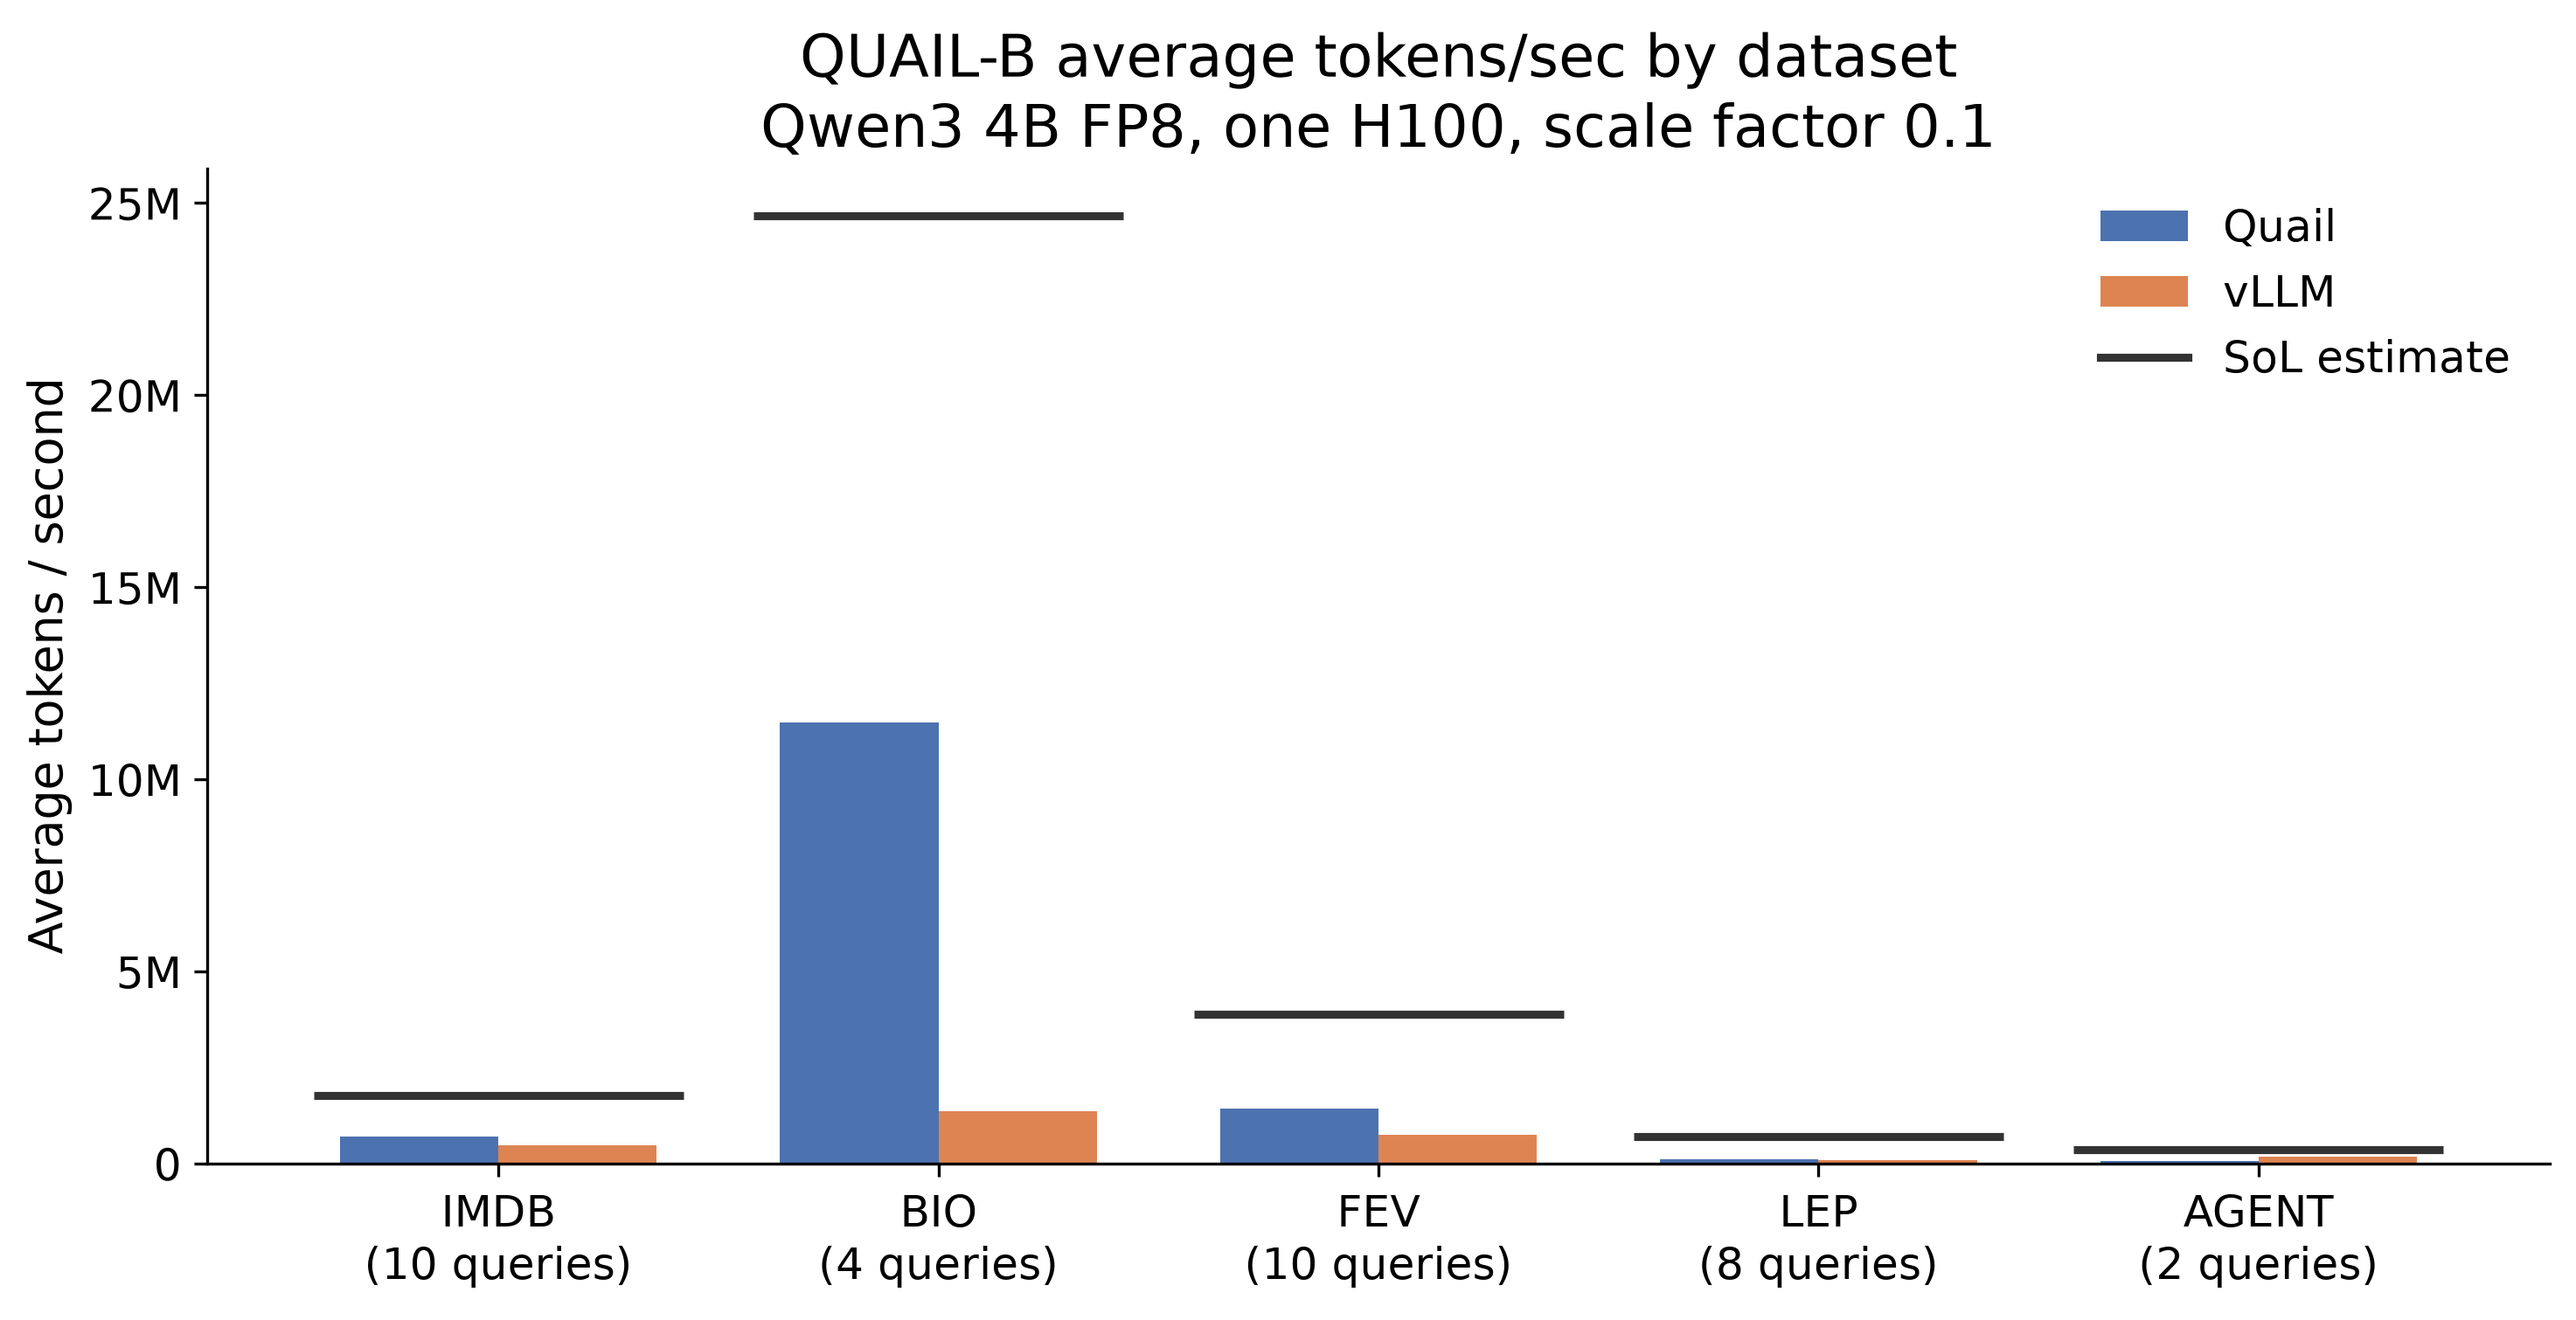
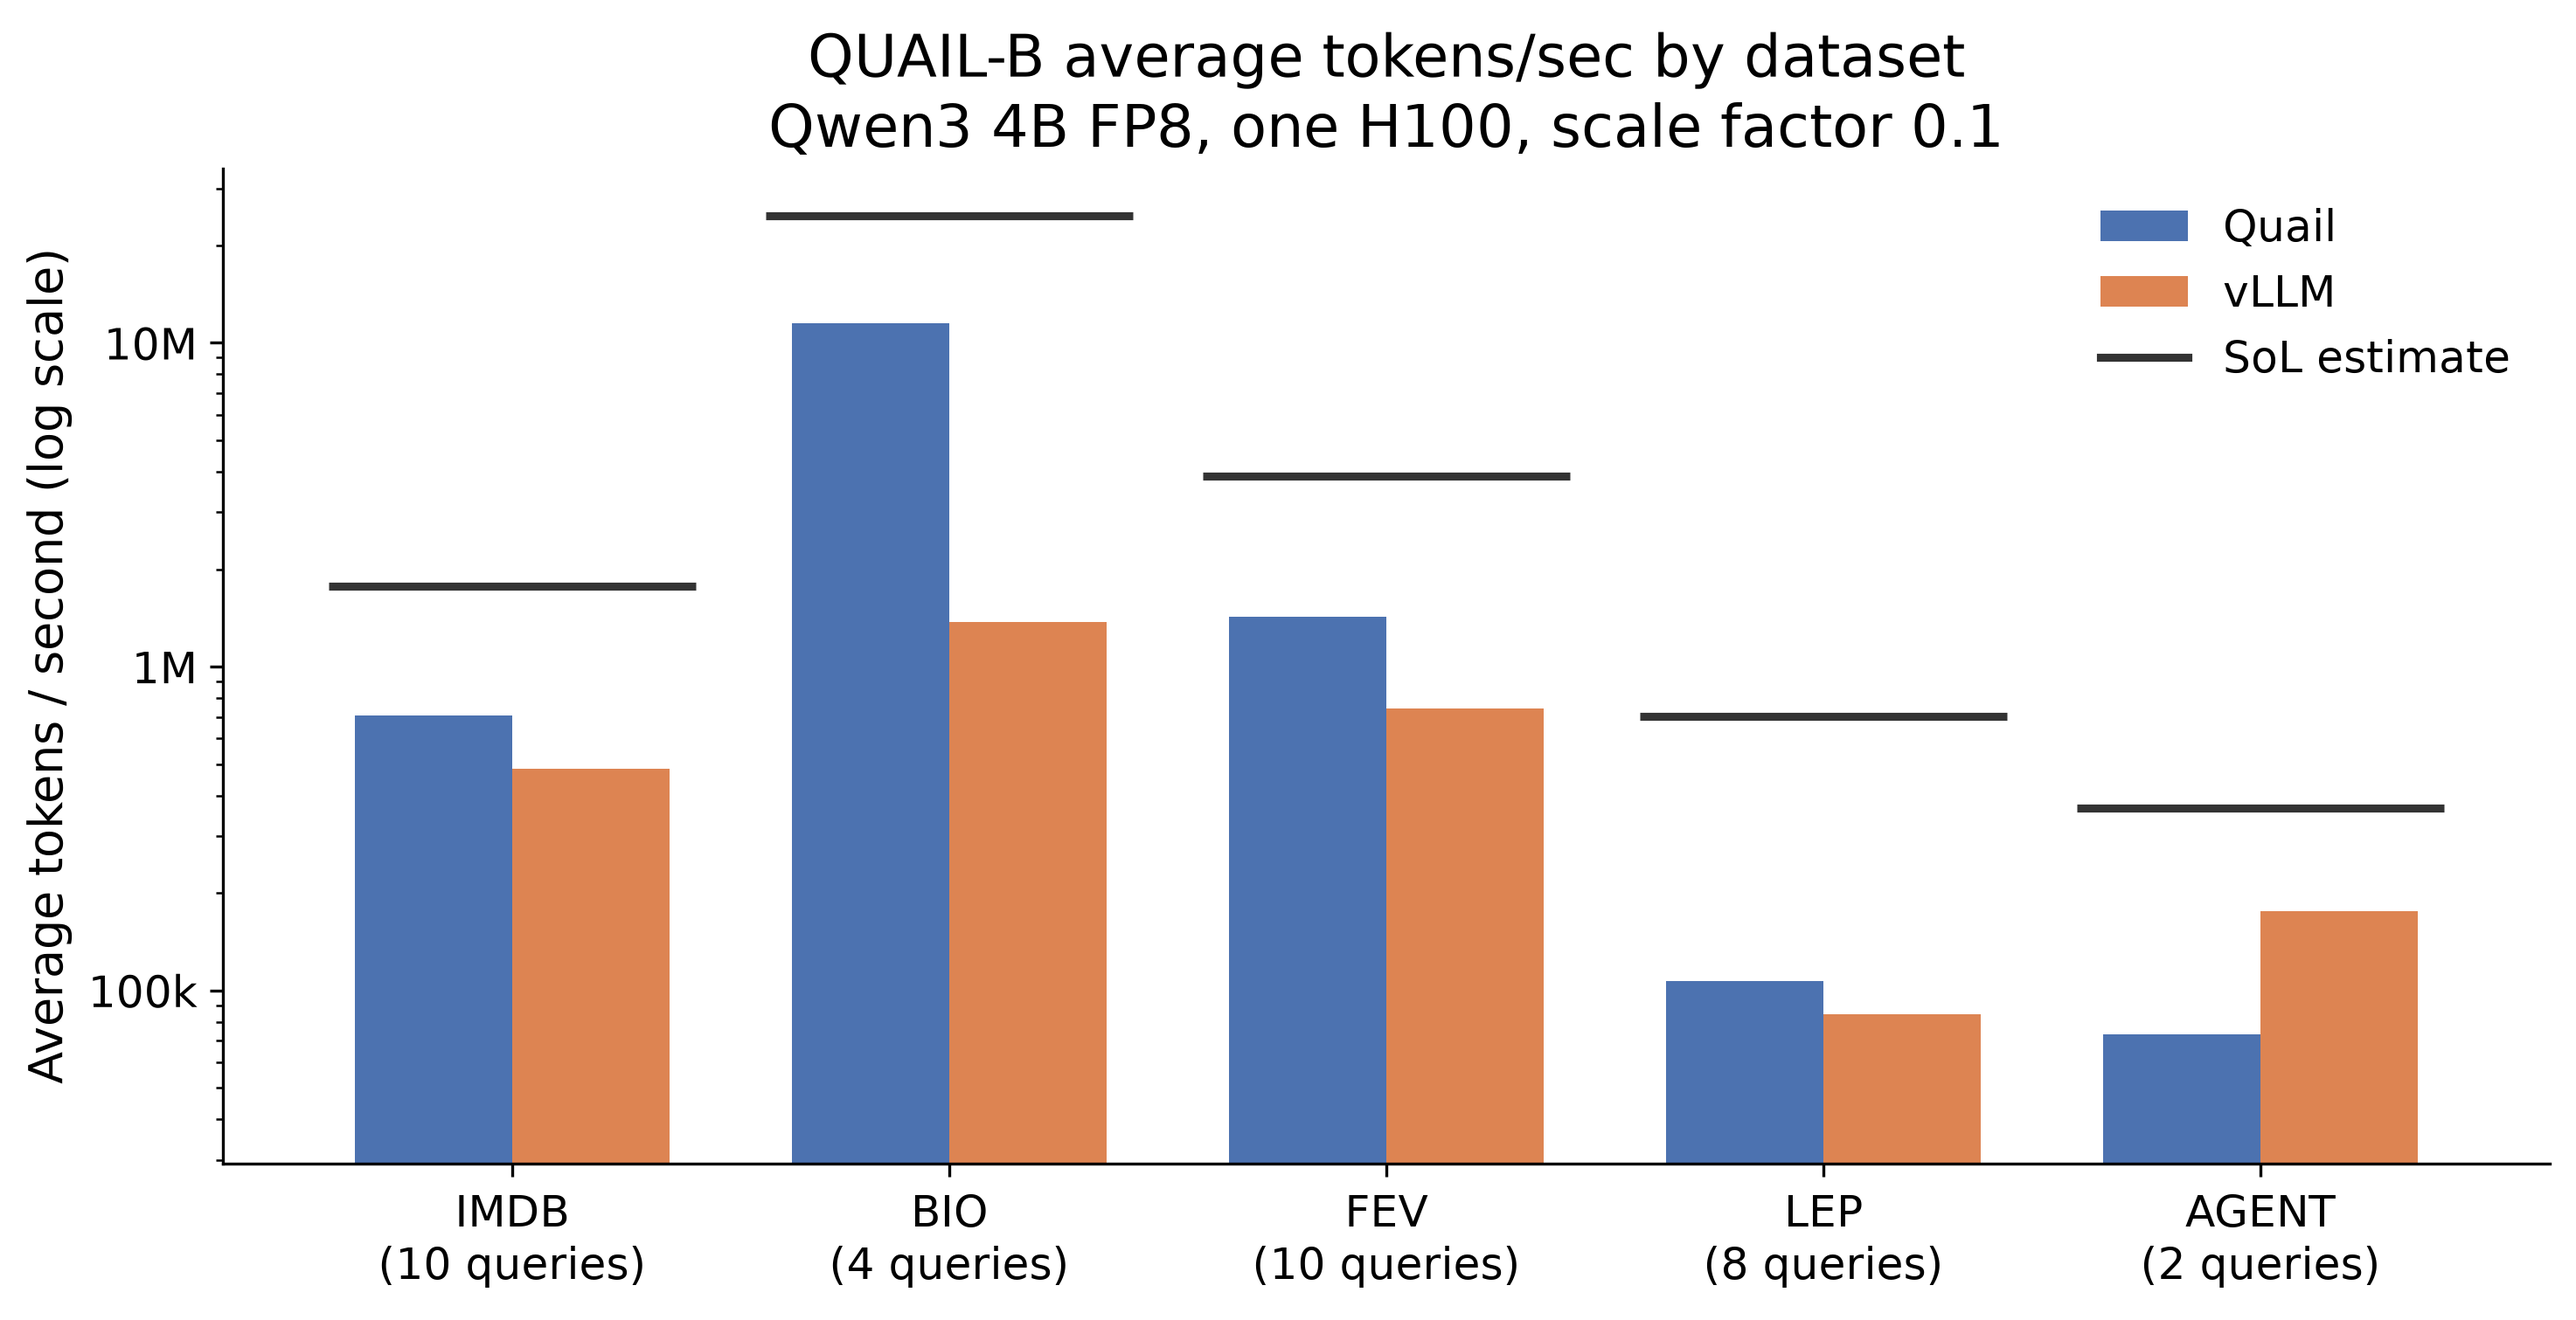
Use log scale for headline tokens/sec y-axis

diff --git a/blogs/intro/make_headline_tok_per_sec.py b/blogs/intro/make_headline_tok_per_sec.py
@@ -154,10 +154,12 @@ def plot_headline(rows, destination: Path):
     figure, axis = plt.subplots(figsize=(10, 5.2))
     positions = list(range(len(datasets)))
     width = 0.36
+    all_bar_values = []
     for index, (method, color) in enumerate(
         (("Quail", BLUE), ("vLLM", ORANGE))
     ):
         values = [statistics.mean(by[name][method]) for name in datasets]
+        all_bar_values.extend(values)
         offset = (index - 0.5) * width
         axis.bar(
             [position + offset for position in positions],
@@ -165,6 +167,7 @@ def plot_headline(rows, destination: Path):
             width,
             color=color,
             zorder=2,
+            bottom=None,
         )
     for position, name in enumerate(datasets):
         if not by[name]["SoL"]:
@@ -181,6 +184,15 @@ def plot_headline(rows, destination: Path):
             zorder=3,
         )
 
+    sol_values = [
+        statistics.mean(by[name]["SoL"])
+        for name in datasets
+        if by[name]["SoL"]
+    ]
+    ymin = min(all_bar_values + sol_values) / 2.5
+    ymax = max(all_bar_values + sol_values) * 1.4
+    axis.set_ylim(ymin, ymax)
+
     axis.set_xticks(positions)
     axis.set_xticklabels(
         [
@@ -188,14 +200,16 @@ def plot_headline(rows, destination: Path):
             for name in datasets
         ]
     )
-    axis.set_ylabel("Average tokens / second")
+    axis.set_ylabel("Average tokens / second (log scale)")
     axis.set_title(
         "QUAIL-B average tokens/sec by dataset\n"
         "Qwen3 4B FP8, one H100, scale factor 0.1"
     )
-    axis.ticklabel_format(style="plain", axis="y", useOffset=False)
+    axis.set_yscale("log")
 
     def _fmt(value, _pos):
+        if value <= 0:
+            return ""
         if value >= 1_000_000:
             return f"{value / 1_000_000:g}M"
         if value >= 1_000:
@@ -203,6 +217,7 @@ def plot_headline(rows, destination: Path):
         return f"{value:g}"
 
     axis.yaxis.set_major_formatter(FuncFormatter(_fmt))
+    # Keep bars readable on log: floor just under the smallest dataset mean.
     axis.legend(
         handles=[
             Patch(facecolor=BLUE, label="Quail"),
